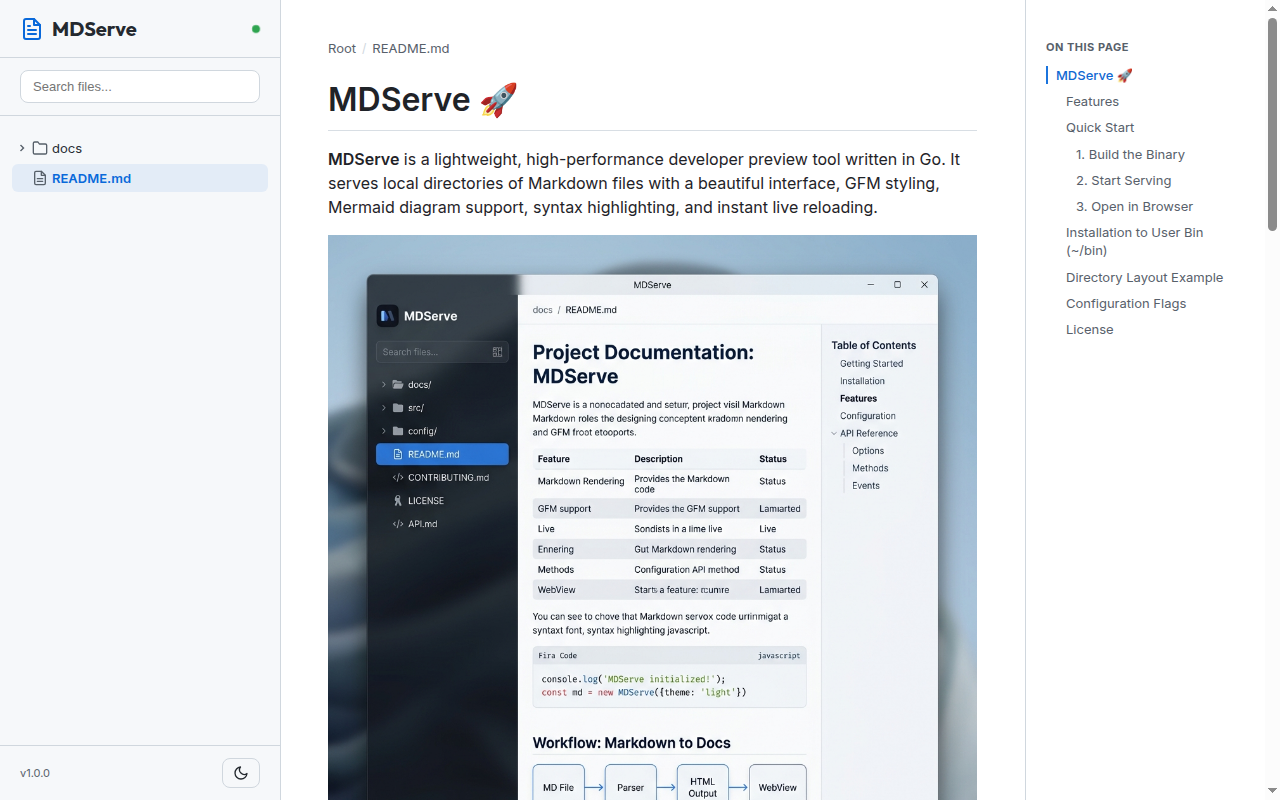
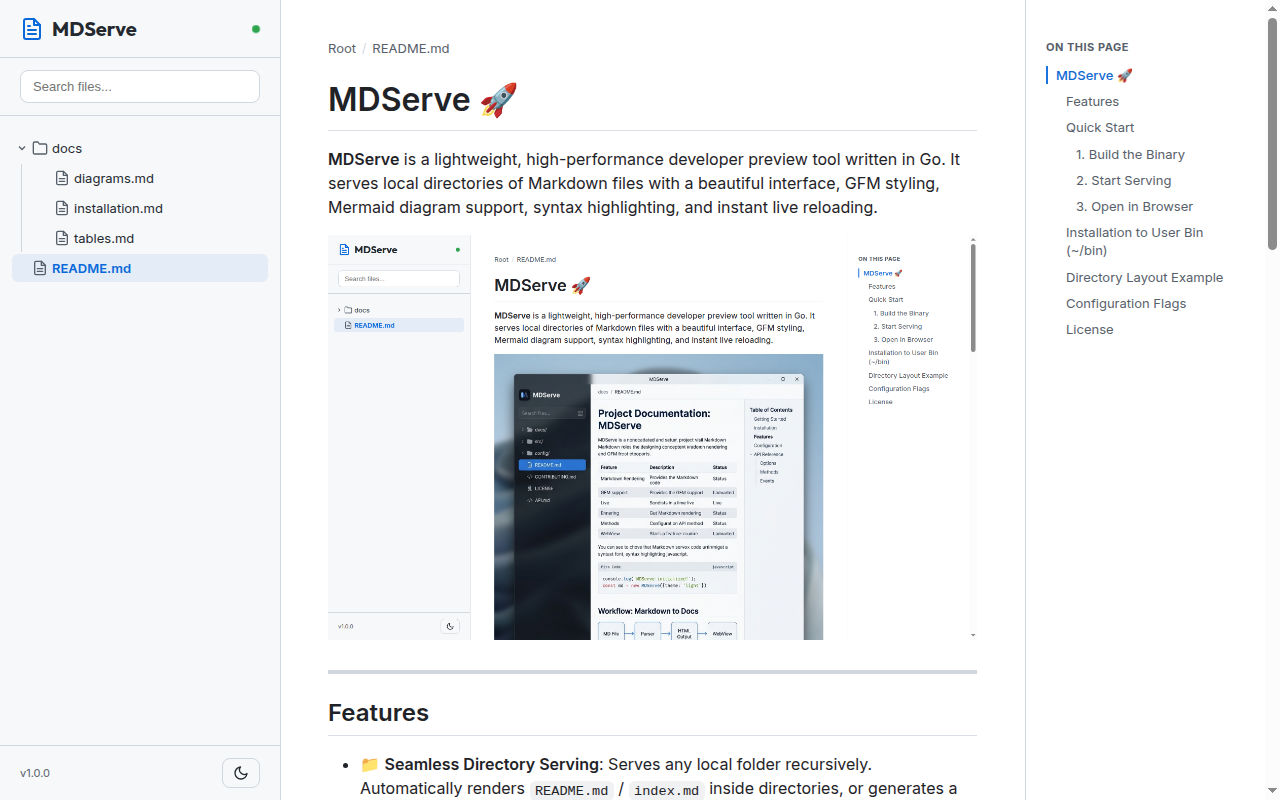
fix empty dirs in file explorer, expand folders by default, and update relative links in readme

Changed region(s): [[0.25, 0.2812, 0.7812, 1.0], [0.0312, 0.2188, 0.125, 0.3438], [0.9688, 0.2812, 1.0, 0.3125]]

diff --git a/main.go b/main.go
@@ -239,19 +239,17 @@ func buildFileTree(rootDir string) (*FileNode, error) {
 				Path:  relPath,
 				IsDir: entry.IsDir(),
 			}
-
 			if entry.IsDir() {
 				children, err := walk(fullPath)
-				if err == nil {
+				if err == nil && len(children) > 0 {
 					node.Children = children
+					nodes = append(nodes, node)
 				}
 			} else {
-				// Only include Markdown files in the tree navigation
-				if strings.ToLower(filepath.Ext(name)) != ".md" {
-					continue
+				if strings.ToLower(filepath.Ext(name)) == ".md" {
+					nodes = append(nodes, node)
 				}
 			}
-			nodes = append(nodes, node)
 		}
 
 		// Sort: folders first, then files alphabetically
@@ -1282,12 +1280,7 @@ var mainTemplate = template.Must(template.New("main").Parse(`<!DOCTYPE html>
              renderTree(node.children, subContainer, node.path);
 
              // Handle collapse / expand logic
-             const isParentOfCurrent = currentPath.startsWith(node.path + '/') || currentPath === node.path;
-             if (isParentOfCurrent) {
-                subContainer.classList.add('expanded');
-             } else {
-                arrow.classList.add('collapsed');
-             }
+             subContainer.classList.add('expanded');
 
              const toggleDir = () => {
                 const isExpanded = subContainer.classList.toggle('expanded');
@@ -1329,15 +1322,8 @@ var mainTemplate = template.Must(template.New("main").Parse(`<!DOCTYPE html>
               const children = node.querySelector('.tree-children');
               const arrow = node.querySelector('.tree-arrow');
               if (children && arrow) {
-                 const currentHref = node.querySelector('.tree-item').getAttribute('href');
-                 const hasActiveChild = currentPath.startsWith(currentHref + '/');
-                 if (hasActiveChild || currentPath === currentHref) {
-                    children.classList.add('expanded');
-                    arrow.classList.remove('collapsed');
-                 } else {
-                    children.classList.remove('expanded');
-                    arrow.classList.add('collapsed');
-                 }
+                 children.classList.add('expanded');
+                 arrow.classList.remove('collapsed');
               }
            });
            return;

diff --git a/README.md b/README.md
@@ -49,9 +49,9 @@ Ensure `~/bin` is in your `PATH` environment variable.
 ## Directory Layout Example
 
 To see nesting and folder routing in action, expand the **docs** folder in the sidebar on the left or browse these test files:
-- [Installation Guide](/docs/installation)
-- [GFM Tables & Tasklists](/docs/tables)
-- [Mermaid Diagrams Preview](/docs/diagrams)
+- [Installation Guide](docs/installation.md)
+- [GFM Tables & Tasklists](docs/tables.md)
+- [Mermaid Diagrams Preview](docs/diagrams.md)
 
 ---
 